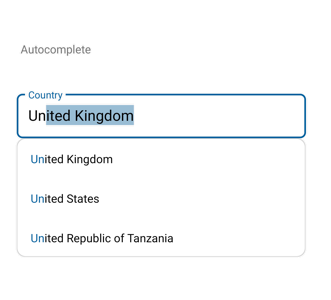
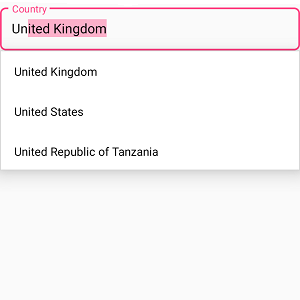
XAMARIN-32433: Modify the code in getting started documentation for ParallaxView

diff --git a/Xamarin/Text-Input-Layout/Supported-input-views.md b/Xamarin/Text-Input-Layout/Supported-input-views.md
@@ -170,7 +170,7 @@ To initialize the Autocomplete control and launch it in each platform, refer to 
 
 {% highlight xaml %} 
 
-<inputLayout:SfTextInputLayout Hint="Country">
+<inputLayout:SfTextInputLayout Hint="Country" ContainerType="Outlined">
    <autocomplete:SfAutoComplete  AutoCompleteMode="SuggestAppend">
       <autocomplete:SfAutoComplete.AutoCompleteSource>
          <ListCollection:List x:TypeArguments="x:String">
@@ -189,6 +189,7 @@ To initialize the Autocomplete control and launch it in each platform, refer to 
 var autoComplete = new SfAutoComplete();
 var inputLayout = new SfTextInputLayout();
 inputLayout.Hint = "Country"; 
+inputLayout.ContainerType = ContainerType.Outlined;
 List<String> countryNames = new List<String>();
 countryNames.Add("United Kingdom");
 countryNames.Add("United States");
@@ -211,7 +212,7 @@ To initialize the ComboBox control and launch it in each platform, refer to the 
 
 {% highlight xaml %} 
 
-<inputLayout:SfTextInputLayout Hint="Country">
+<inputLayout:SfTextInputLayout Hint="Country" ContainerType="Outlined">
    <combobox:SfComboBox>
       <combobox:SfComboBox.ComboBoxSource>
          <ListCollection:List x:TypeArguments="x:String">
@@ -230,6 +231,7 @@ To initialize the ComboBox control and launch it in each platform, refer to the 
 var combobox = new SfComboBox();
 var inputLayout = new SfTextInputLayout();
 inputLayout.Hint = "Country"; 
+inputLayout.ContainerType = ContainerType.Outlined;
 List<String> countryNames = new List<String>();
 countryNames.Add("Afghanistan");
 countryNames.Add("Akrotiri");

diff --git a/Xamarin/Parallax-View/GettingStarted.md b/Xamarin/Parallax-View/GettingStarted.md
@@ -1,13 +1,13 @@
 ---
 layout: post
 title: Getting Started for Syncfusion Essential Xamarin.Forms SfParallaxView
-description: How to create a parallax view, add content and source, speed and orientation.
+description: A quick tour to the initial users on Syncfusion SfParallaxView control for Xamarin.Forms platform and create a demo application from the scratch.
 platform: xamarin.forms
 control: SfParallaxView
 documentation: ug
 ---
 
-# Getting Started
+# Getting Started with Xamarin ParallaxView (SfParallaxView)
 
 This section explains the steps required to configure the [`SfParallaxView`](https://help.syncfusion.com/cr/cref_files/xamarin/sfparallaxview/Syncfusion.SfParallaxView.XForms~Syncfusion.SfParallax.XForms.SfParallaxView.html) control and add basic elements to it using various APIs.
 
